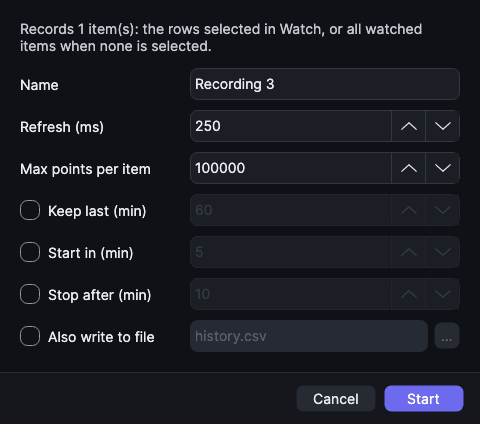
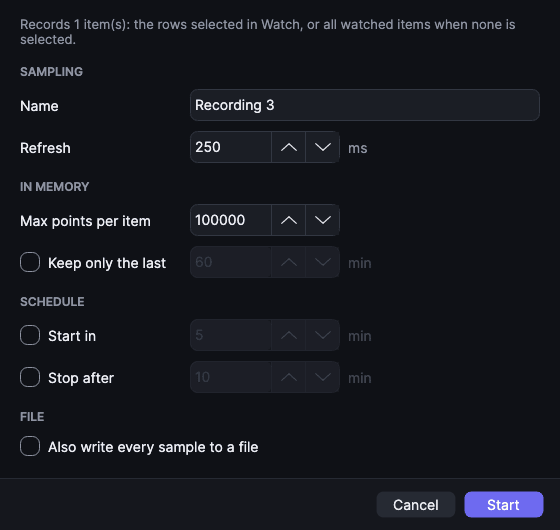
feat(app): clearer New Recording form, and add to an existing SQLite file (#95)
* feat(app): pick an existing SQLite file to add a recording to

* feat(app): clearer New Recording form: sections, units, file actions and status

diff --git a/src/MachineDataBrowser.App/ViewModels/NewRecordingViewModel.cs b/src/MachineDataBrowser.App/ViewModels/NewRecordingViewModel.cs
@@ -78,8 +78,19 @@ public sealed partial class NewRecordingViewModel(NewRecordingDraft draft) : Obs
     public partial bool UseLiveFile { get; set; }
 
     [ObservableProperty]
-    [NotifyPropertyChangedFor(nameof(IsSqliteFile), nameof(CanUseFileRetention))]
+    [NotifyPropertyChangedFor(nameof(IsSqliteFile), nameof(CanUseFileRetention), nameof(FileStatus))]
     public partial string? LiveFilePath { get; set; }
+
+    /// <summary>What starting will do to the chosen file, so nobody fears an existing file is replaced.</summary>
+    public string FileStatus => LiveFilePath?.Trim() is not { Length: > 0 } path
+        ? "Choose a new file, or an existing SQLite file to add this recording to."
+        : (IsSqliteFile, File.Exists(path)) switch
+        {
+            (true, true) => "Adds this recording to the existing SQLite file; the recordings in it are kept.",
+            (true, false) => "Creates a SQLite database, queryable with SQL. Later recordings can be added to it.",
+            (false, true) => "Appends the samples to the existing CSV file.",
+            _ => "Creates a CSV file.",
+        };
 
     /// <summary>Retention deletes from SQLite files only; a CSV file is only ever appended to.</summary>
     public bool IsSqliteFile => LiveFilePath is { Length: > 0 } path && RecordingFiles.IsSqlite(path);

diff --git a/tests/MachineDataBrowser.App.Tests/NewRecordingFormTests.cs b/tests/MachineDataBrowser.App.Tests/NewRecordingFormTests.cs
@@ -30,6 +30,28 @@ public sealed class NewRecordingFormTests
         Assert.Null(form.ToOptions(DateTimeOffset.UtcNow).FileRetention);
     }
 
+    [Fact]
+    public void File_status_says_whether_the_file_is_created_or_added_to()
+    {
+        var existing = Path.Combine(Path.GetTempPath(), $"mdb-{Guid.NewGuid():N}.db");
+        File.WriteAllBytes(existing, []);
+        try
+        {
+            var form = new NewRecordingViewModel(new NewRecordingDraft("R", 1, 250)) { UseLiveFile = true };
+            Assert.StartsWith("Choose", form.FileStatus, StringComparison.Ordinal);
+            form.LiveFilePath = existing;
+            Assert.StartsWith("Adds this recording to the existing SQLite file", form.FileStatus, StringComparison.Ordinal);
+            form.LiveFilePath = existing + ".new.db";
+            Assert.StartsWith("Creates a SQLite database", form.FileStatus, StringComparison.Ordinal);
+            form.LiveFilePath = existing + ".csv";
+            Assert.Equal("Creates a CSV file.", form.FileStatus);
+        }
+        finally
+        {
+            File.Delete(existing);
+        }
+    }
+
     [AvaloniaFact]
     public async Task Typed_max_points_is_used_when_clicking_start()
     {

diff --git a/src/MachineDataBrowser.App/Views/NewRecordingWindow.axaml.cs b/src/MachineDataBrowser.App/Views/NewRecordingWindow.axaml.cs
@@ -34,4 +34,24 @@ public sealed partial class NewRecordingWindow : Window
             vm.LiveFilePath = path;
         }
     }
+
+    // The macOS save panel always asks to replace an existing file; opening one doesn't, and SQLite files are added to.
+    private async void OnPickExistingFile(object? sender, RoutedEventArgs e)
+    {
+        if (DataContext is not NewRecordingViewModel vm)
+        {
+            return;
+        }
+
+        var files = await StorageProvider.OpenFilePickerAsync(new FilePickerOpenOptions
+        {
+            Title = "Add to SQLite file",
+            AllowMultiple = false,
+            FileTypeFilter = [MainWindow.SqliteFileType],
+        });
+        if (files is [var file] && file.TryGetLocalPath() is { } path)
+        {
+            vm.LiveFilePath = path;
+        }
+    }
 }

diff --git a/tests/MachineDataBrowser.App.Tests/FormLayoutTests.cs b/tests/MachineDataBrowser.App.Tests/FormLayoutTests.cs
@@ -19,7 +19,7 @@ public sealed class FormLayoutTests
         Application.Current!.RequestedThemeVariant = ThemeVariant.Dark;
         var main = new MainWindow { DataContext = new MainWindowViewModel(), Width = 1280, Height = 800 };
         main.Show();
-        var form = new NewRecordingWindow { DataContext = new NewRecordingViewModel(new NewRecordingDraft("Recording 1", 2, 250)) };
+        var form = new NewRecordingWindow { DataContext = new NewRecordingViewModel(new NewRecordingDraft("Recording 1", 2, 250)) { UseLiveFile = true, LiveFilePath = "/tmp/line1.db" } };
         _ = form.ShowDialog<object?>(main);
         var settings = new SettingsWindow { DataContext = new SettingsViewModel(new Services.AppSettings()) };
         _ = settings.ShowDialog<object?>(main);

diff --git a/docs/user-manual.md b/docs/user-manual.md
@@ -285,13 +285,13 @@ source, right-click it in the address space ▸ **Show events & alarms**. Each w
 
 A recording captures the values of its items with timestamps. It keeps running when you remove the items from Watch.
 
-- **Start:** R records the selected Watch rows (or all of them); ⇧R records everything monitored. The form sets:
-  - name and refresh time,
-  - **Max points per item** (the oldest samples are dropped),
-  - **Keep last (min)** (samples older than this are dropped),
-  - a delayed start and an automatic stop,
-  - **Also write to file**: *every* sample, not limited by the two settings above. A `.csv` file gets one line per
-    sample; a `.db` / `.sqlite` file is a **SQLite database** you can query with SQL (see below).
+- **Start:** R records the selected Watch rows (or all of them); ⇧R records everything monitored. The form has:
+  - *Sampling:* name and refresh time,
+  - *In memory:* **Max points per item** (the oldest samples are dropped) and **Keep only the last** minutes,
+  - *Schedule:* **Start in** and **Stop after** minutes,
+  - *File:* **Also write every sample to a file**, not limited by the in-memory settings. A `.csv` file gets one line
+    per sample; a `.db` / `.sqlite` file is a **SQLite database** you can query with SQL (see below). The line under
+    the buttons says whether the file is created or added to.
 - **Control (Recordings pane):**
   - N new recording from the Watch selection, A records everything monitored, Enter opens the viewer.
   - S start/resume, P pause, X stop.
@@ -307,9 +307,11 @@ A recording captures the values of its items with timestamps. It keeps running w
 
 ### Recording to SQLite
 
-Choose a file ending in `.db` (or `.sqlite`) for *Also write to file*. Each start of a recording adds a recording to
-the file, so one file can hold a whole shift or week. Values keep their type: numbers in `value_num` (booleans 1/0),
-text in `value_text`, arrays and structures as JSON in `value_json`; times are UTC (`2026-10-03T12:00:00.000Z`).
+Choose a file ending in `.db` (or `.sqlite`) with **New File…**; to add to a file you already have, pick it with **Add
+to Existing…** (the save dialog would ask to replace it, although nothing is replaced). Each start of a recording adds a
+recording to the file, so one file can hold a whole shift or week. Values keep their type: numbers in `value_num`
+(booleans 1/0), text in `value_text`, arrays and structures as JSON in `value_json`; times are UTC
+(`2026-10-03T12:00:00.000Z`).
 
 | Table / view | Holds |
 |---|---|
@@ -326,7 +328,7 @@ FROM sample_view WHERE name = 'Speed' GROUP BY minute;
 SELECT source_utc, name, status FROM sample_view WHERE status_code <> 0;
 ```
 
-**Keep in file (days)** (SQLite only) deletes samples older than that from the file, from every recording in it, and
+**Keep in file** (days, SQLite only) deletes samples older than that from the file, from every recording in it, and
 removes recordings left empty, so an always-on recording stays bounded. It is checked when recording starts and once a
 minute; freed space goes back to the disk gradually (files created by version 0.17 or later).
 
